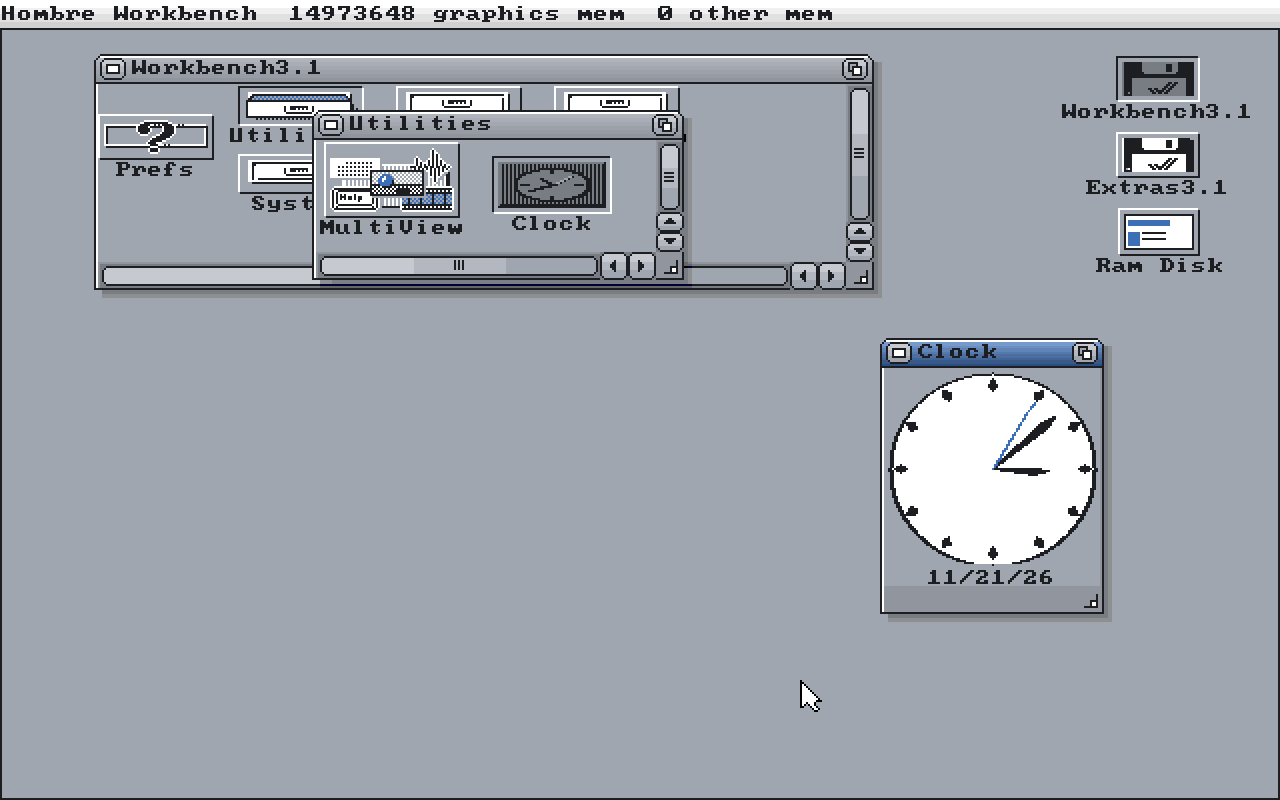
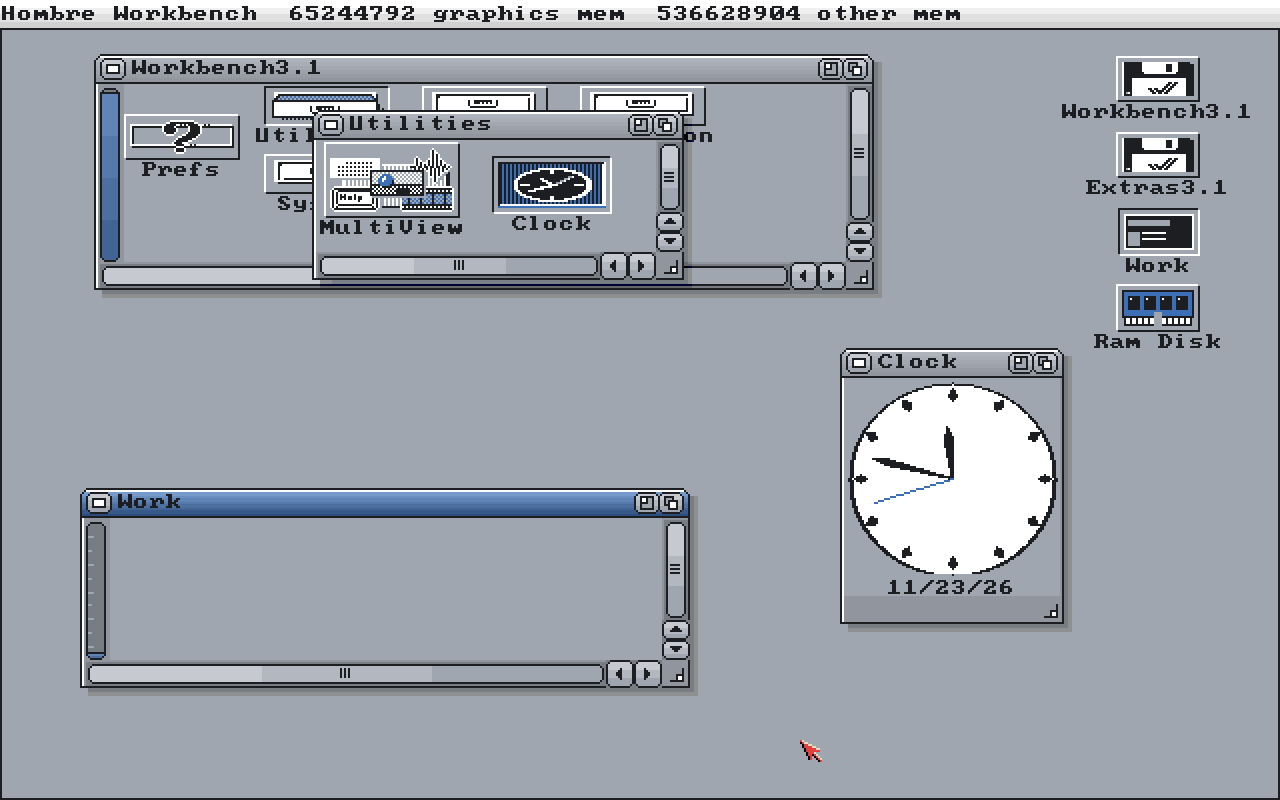
Describe hard disks and HDToolBox, with a new Workbench screenshot

diff --git a/README.md b/README.md
@@ -14,9 +14,15 @@ software, on modern hardware and in virtual machines.
   translator.
 - Native AmigaOS libraries written in C++: exec, dos, intuition, graphics,
   layers, gadtools, icon, workbench, utility, keymap and version, with
-  timer.device and console.device. No Kickstart ROM needed.
+  timer.device, console.device, audio.device and scsi.device. No Kickstart
+  ROM needed.
 - Reads real Amiga floppy images, ADF and DMS, in DF0: to DF3:, next to a
   writable Ram Disk.
+- Hard disks: RDB-partitioned hard disk images (HDF), and Amiga partitions
+  inside an MBR or GPT disk, on virtio, SATA (AHCI) and NVMe. The
+  partitions mount as DH0: and on, can be written, and Hombre boots from
+  the bootable one with the highest boot priority, as an Amiga does.
+- HDToolBox from the 3.1 Install disk sees the disks through scsi.device.
 - Boots with a splash and a progress bar, then runs the boot disk's
   `S:Startup-Sequence`, as an Amiga does.
 - A Workbench desktop: drawers, framed icons as on 3.1, icon drag and drop,
@@ -78,6 +84,20 @@ make run DISK="path/to/Workbench.dms"
 boots a generated test disk.
 
 Hombre ships no AmigaOS files. Use your own, legally owned AmigaOS disks.
+
+Add a hard disk image with `HDF=`. `mkhdf` makes one, here a 128 MB disk
+whose bootable DH0: holds a copy of the floppy:
+
+```sh
+make build/tools/mkhdf
+build/tools/mkhdf --size 128 dh0.hdf "path/to/Workbench.dms"
+make run HDF=dh0.hdf
+```
+
+`mkhdf --size 128 --empty FFS Work work.hdf` makes an empty FFS disk
+instead. `HDF1=` to `HDF3=` add more disks, and `HDF_BUS=ahci` or
+`HDF_BUS=nvme` puts them on a SATA or NVMe controller. Hombre writes to
+the image, so a file you save is there after the next boot.
 
 Hombre runs the disk's `S:Startup-Sequence`. On the Workbench 3.1 disk it
 ends with `LoadWB`, so you land on the Workbench. Press Ctrl+D while Hombre
